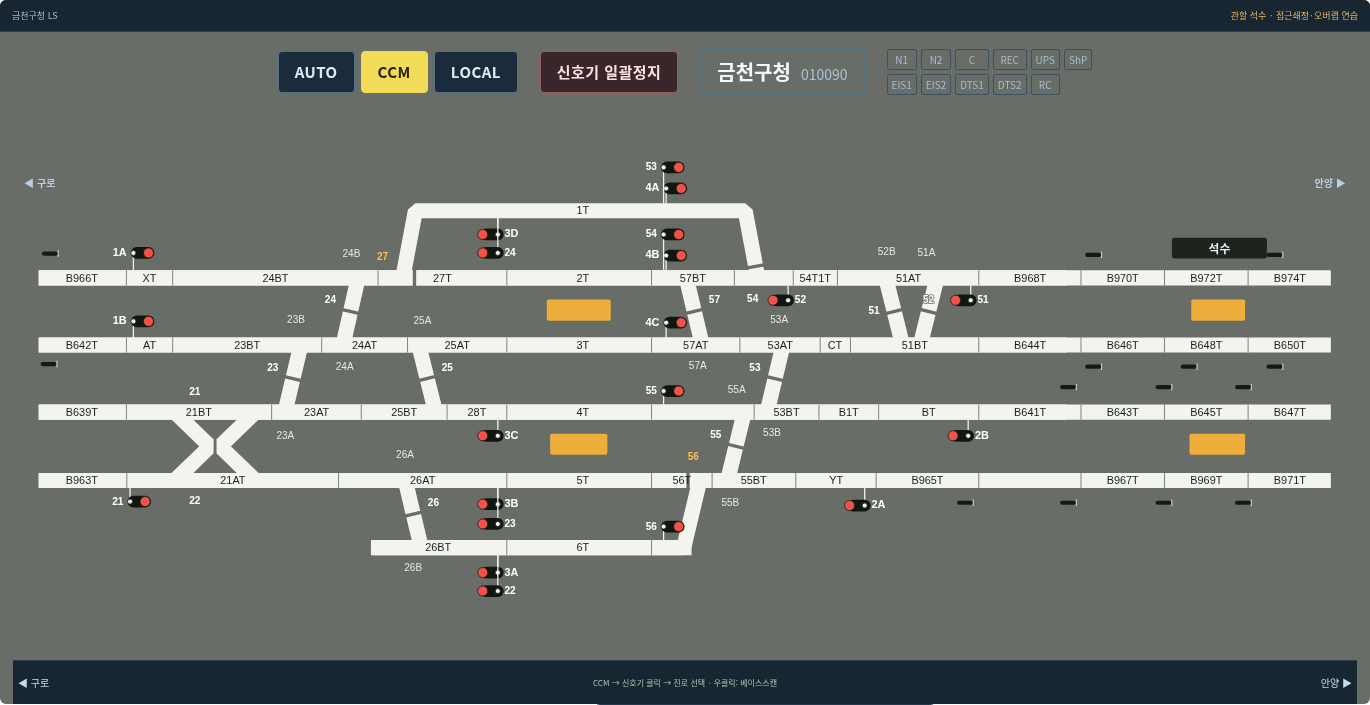
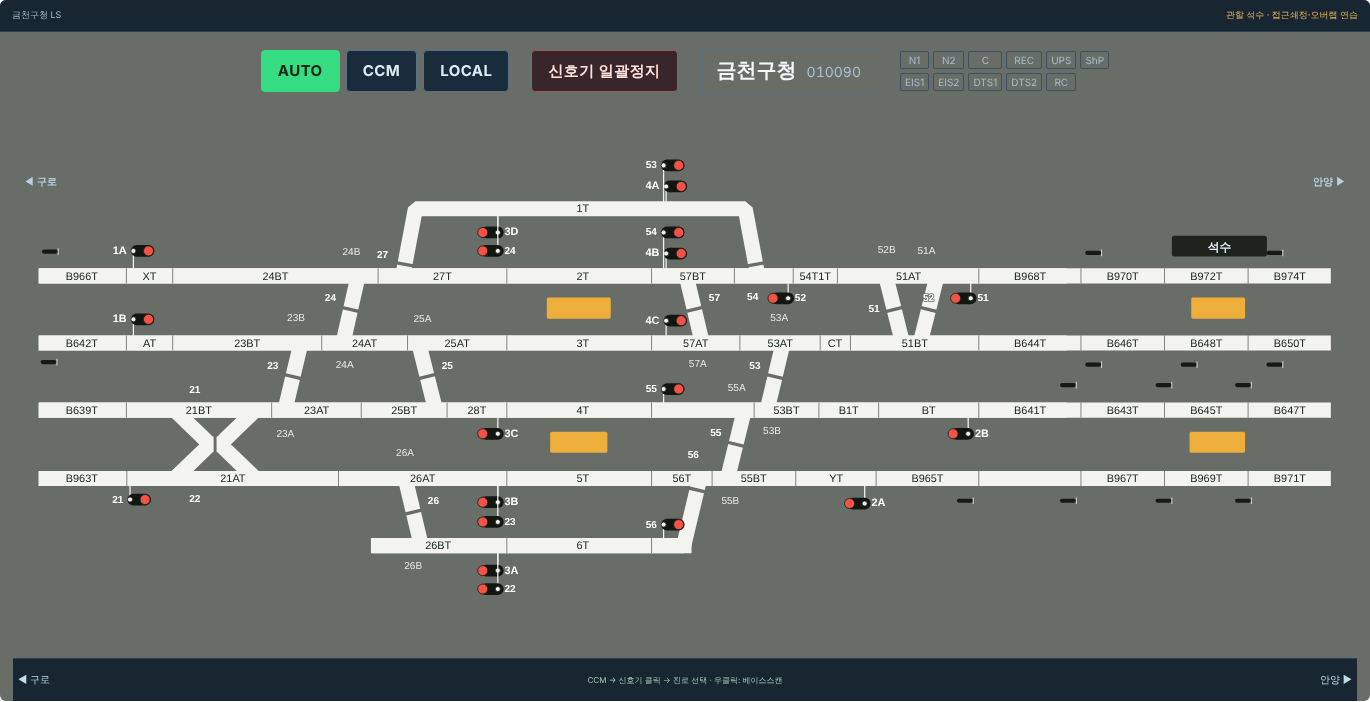
Add the ORPHEIA MMI shell: menu bar, floating windows and alarm/event logs
- mmi.js/mmi.css: Windows-style MMI after the real MMI photos (menu structure, windows, alarm and
  event log panes with the real message formats). The school logo is not used; the wallpaper is an
  Orpheia parody (optional assets/orpheia-mascot.png, vector lyre fallback).
- Existing field control, graph and schedule panels are hosted as windows with their ids kept;
  app.js gets two sync hooks for the logs.
- Windows seen in the photos but not implemented say so. Tests: mmi.browser.test.py; network and
  schematic browser tests adapted to the menu / optional mascot.

Claude-Session: https://claude.ai/code/session_016wg2Uchd4iKa4FQ1txHsNT

diff --git a/simulator/mmi.js b/simulator/mmi.js
@@ -1,0 +1,141 @@
+(function(root){
+'use strict';
+// "ORPHEIA MMI" shell (a parody of the real school MMI; no school logo is used): Windows-style menu bar, floating windows and the alarm / event log panes, as seen on the real MMI
+// (photos 2026-10-21). Existing panels (field control, graph, schedule) are hosted as windows; their element ids are kept.
+const N=root.SimNetwork,doc=document,$=id=>doc.getElementById(id);
+const esc=s=>String(s??'').replace(/[&<>"']/g,c=>({'&':'&amp;','<':'&lt;','>':'&gt;','"':'&quot;',"'":'&#39;'}[c]));
+const PENDING='원본 화면을 아직 확인하지 못해 구현하지 않았습니다.';
+// Menu structure copied from the photos. Items without `open` are known names whose windows are not implemented yet;
+// menus whose entries were never photographed are marked as unknown.
+const MENUS=[
+ {label:'프로그램',items:[{label:'(원본 메뉴 항목 미확인)',disabled:true}]},
+ {label:'현장제어',items:[
+  {label:'현장설비제어(A)',open:'field'},
+  {label:'열차제어',items:[{label:'열차번호제어(B)',open:'trainNumber'},{label:'열차추적(T)',open:'trace'}]}]},
+ {label:'열차스케줄',items:[
+  {label:'열차운행패턴 관리(P)',open:'pattern'},
+  {label:'온라인열차스케줄 관리',items:[{label:'온라인 열차스케줄ID관리(I)',open:'scheduleId'},{label:'온라인 열차스케줄관리(G)',open:'schedule'},{label:'진입예고열차관리(E)',open:'entryNotice'}]},
+  {label:'온라인 열차그래프(O)',open:'graph'},
+  {label:'오프라인 열차그래프(F)',open:'offlineGraph'},
+  {label:'오프라인 열차스케줄',items:[{label:'(원본 메뉴 항목 미확인)',disabled:true}]}]},
+ {label:'시스템 조회',items:[{label:'(원본 메뉴 항목 미확인)',disabled:true}]},
+ {label:'시스템 관리',items:[{label:'(원본 메뉴 항목 미확인)',disabled:true}]}
+];
+const windows={};let zTop=20,desktop,logRows={alarm:[],event:[]};
+const stamp=d=>`${d.getFullYear()}/${String(d.getMonth()+1).padStart(2,'0')}/${String(d.getDate()).padStart(2,'0')} ${String(d.getHours()).padStart(2,'0')}:${String(d.getMinutes()).padStart(2,'0')}:${String(d.getSeconds()).padStart(2,'0')}`;
+
+// ---------------------------------------------------------------- logs
+function renderLogs(){
+ for(const kind of ['alarm','event']){
+  const body=$(kind+'LogBody');if(!body)continue;
+  body.innerHTML=logRows[kind].length?logRows[kind].slice(0,200).map(r=>`<tr><td>[안내]</td><td>${r.time}</td><td>${esc(r.text)}</td></tr>`).join(''):`<tr class="empty"><td colspan="3">기록 없음</td></tr>`;
+ }
+}
+function log(kind,text,date=new Date()){logRows[kind].unshift({time:stamp(date),text});if(logRows[kind].length>500)logRows[kind].length=500;renderLogs();}
+const stationLabel=id=>{const s=N?.catalog[id];return s?{name:s.name,code:s.code}:{name:id,code:''};};
+const routeText=id=>'RT_'+id.replace('-','_');
+// Alarm log: route set / release. Event log: mode change and base scan. A new state object (reset) is a silent baseline.
+const seen={};
+function sync(stationId,state,action,result){
+ const st=stationLabel(stationId),prev=seen[stationId],now=new Set(Object.keys(state.routes));
+ if(!prev||prev.state!==state){seen[stationId]={state,routes:now,mode:state.mode};return;}
+ for(const id of now)if(!prev.routes.has(id))log('alarm',`${st.name}역 ${routeText(id)}진로설정`);
+ for(const id of prev.routes)if(!now.has(id))log('alarm',`${st.name}역 ${routeText(id)}진로해정`);
+ if(state.mode!==prev.mode)log('event',`${st.name}[${st.code}] ${state.mode} MODE로 전환`);
+ if(action?.type==='scan'&&result?.ok)log('event',action.scope==='all'?'전체 제어역 Basescan 수신':`${st.name}역 Basescan 수신`);
+ seen[stationId]={state,routes:now,mode:state.mode};
+}
+function syncAll(states){for(const [id,state] of Object.entries(states))sync(id,state);}
+
+// ---------------------------------------------------------------- windows
+function focus(w){w.el.style.zIndex=++zTop;for(const x of Object.values(windows))x.el.classList.toggle('active',x===w);}
+function createWindow(id,{title,x=24,y=24,width,body,host=null,onClose=null}){
+ const el=doc.createElement('div');el.className='mmi-win';el.dataset.mmiWindow=id;el.hidden=true;
+ el.style.left=x+'px';el.style.top=y+'px';if(width)el.style.width=width+'px';
+ el.innerHTML=`<div class="mmi-title"><span class="mmi-title-icon" aria-hidden="true"></span><span class="mmi-title-text">${esc(title)}</span><button type="button" class="mmi-close" aria-label="${esc(title)} 닫기">✕</button></div><div class="mmi-win-body"></div>`;
+ const holder=el.querySelector('.mmi-win-body');
+ if(host)holder.appendChild(host);else if(body)holder.innerHTML=body;
+ desktop.appendChild(el);
+ const w={id,el,host,onClose,title};windows[id]=w;
+ el.addEventListener('pointerdown',()=>focus(w));
+ el.querySelector('.mmi-close').onclick=()=>close(id);
+ // dragging by the title bar
+ const bar=el.querySelector('.mmi-title');
+ bar.addEventListener('pointerdown',e=>{if(e.target.closest('button'))return;const sx=e.clientX-el.offsetLeft,sy=e.clientY-el.offsetTop;bar.setPointerCapture(e.pointerId);
+  const move=ev=>{el.style.left=Math.max(0,ev.clientX-sx)+'px';el.style.top=Math.max(0,ev.clientY-sy)+'px';};
+  const up=()=>{bar.removeEventListener('pointermove',move);bar.removeEventListener('pointerup',up);};
+  bar.addEventListener('pointermove',move);bar.addEventListener('pointerup',up);});
+ if(host)new MutationObserver(()=>{el.hidden=host.hidden;}).observe(host,{attributes:true,attributeFilter:['hidden']});
+ return w;
+}
+function open(id){
+ const w=windows[id];if(!w){return null;}
+ // an already open window is only brought to the front (re-running the opener would reload its draft)
+ if(w.host&&w.host.hidden){w.host.hidden=false;w.opener?.();}
+ w.el.hidden=false;focus(w);return w;
+}
+function close(id){const w=windows[id];if(!w)return;if(w.host){const btn=w.closer?$(w.closer):null;if(btn)btn.click();w.host.hidden=true;}w.el.hidden=true;}
+const isOpen=id=>!!windows[id]&&!windows[id].el.hidden;
+
+// windows that exist on the real MMI but are not implemented yet
+function placeholder(id,title,note){
+ createWindow(id,{title,x:60+Object.keys(windows).length*14,y:60+Object.keys(windows).length*14,width:520,body:`<div class="mmi-pending"><p><b>${esc(title)}</b></p><p>${esc(note||PENDING)}</p></div>`});
+}
+
+// ---------------------------------------------------------------- menu bar
+// Wallpaper parody of the school logo: the Orpheia mascot (assets/orpheia-mascot.png, optional) or a vector lyre + ORPHEIA.
+const LYRE='<svg viewBox="0 0 64 72" width="54" height="60" aria-hidden="true"><path d="M14 8c-8 8-8 26 2 34 4 3 8 5 12 5V12c0-3-3-5-6-4-3 1-5 3-8 0z" fill="none"/><path d="M12 10c-6 14-2 30 12 36 3 1 5 2 8 2s5-1 8-2c14-6 18-22 12-36" fill="none" stroke="#c9a227" stroke-width="4" stroke-linecap="round"/><path d="M20 12v34M28 10v38M36 10v38M44 12v34" stroke="#e3c25a" stroke-width="2.4" stroke-linecap="round"/><path d="M10 10h44" stroke="#c9a227" stroke-width="5" stroke-linecap="round"/><path d="M24 58h16l4 8H20z" fill="#c9a227"/></svg>';
+function brand(){
+ const one=`<div class="mmi-brand"><span class="mmi-mascot">${LYRE}<img src="assets/orpheia-mascot.png" alt="" onerror="this.remove()" onload="this.parentElement.querySelector('svg')?.remove()"></span><span class="mmi-brand-text"><b>ORPHEIA</b><em>MMI</em><small>電脳侍女 · LV.99</small></span></div>`;
+ return `<div class="mmi-wallpaper" aria-hidden="true">${one}${one}</div>`;
+}
+function buildMenu(){
+ const bar=doc.createElement('div');bar.className='mmi-menubar';bar.setAttribute('role','menubar');
+ let openTop=null;
+ const closeAll=()=>{bar.querySelectorAll('.open').forEach(e=>e.classList.remove('open'));openTop=null;};
+ const list=(items,depth)=>`<ul class="mmi-menu-list" role="menu">${items.map(it=>it.items?`<li class="has-sub" role="none"><button type="button" role="menuitem" aria-haspopup="true">${esc(it.label)}<i>▸</i></button>${list(it.items,depth+1)}</li>`
+  :`<li role="none"><button type="button" role="menuitem" ${it.disabled?'disabled':''} ${it.open?`data-mmi-open="${it.open}"`:''}>${esc(it.label)}</button></li>`).join('')}</ul>`;
+ bar.innerHTML=MENUS.map(m=>`<div class="mmi-menu-top"><button type="button" class="mmi-top-btn" aria-haspopup="true">${esc(m.label)}</button>${list(m.items,1)}</div>`).join('');
+ bar.addEventListener('click',e=>{
+  const top=e.target.closest('.mmi-top-btn');
+  if(top){const wrap=top.parentElement,was=wrap.classList.contains('open');closeAll();if(!was){wrap.classList.add('open');openTop=wrap;}return;}
+  const sub=e.target.closest('.has-sub>button');if(sub){const li=sub.parentElement;const was=li.classList.contains('open');li.parentElement.querySelectorAll(':scope>.open').forEach(x=>x.classList.remove('open'));if(!was)li.classList.add('open');return;}
+  const item=e.target.closest('[data-mmi-open]');if(item){closeAll();open(item.dataset.mmiOpen);}
+ });
+ bar.addEventListener('mouseover',e=>{const top=e.target.closest('.mmi-menu-top');if(top&&openTop&&top!==openTop){closeAll();top.classList.add('open');openTop=top;}});
+ doc.addEventListener('pointerdown',e=>{if(!e.target.closest('.mmi-menubar'))closeAll();});
+ doc.addEventListener('keydown',e=>{if(e.key==='Escape')closeAll();});
+ return bar;
+}
+
+// ---------------------------------------------------------------- shell
+function init(){
+ const old=doc.querySelector('.mmi-panel');if(!old)return;
+ const field=old.querySelector('.mmi-window'),graph=$('graphPanel'),schedule=$('schedulePanel');
+ const shell=doc.createElement('section');shell.className='panel mmi-shell';shell.id='mmiShell';
+ shell.innerHTML=`<div class="mmi-appbar"><span class="mmi-appicon" aria-hidden="true"></span><b>ORPHEIA MMI</b><span class="mmi-appnote">전뇌시녀 오르페이아의 관제 보조 단말 · 메뉴와 창 구성은 실물 사진 기준</span></div>`;
+ shell.appendChild(buildMenu());
+ desktop=doc.createElement('div');desktop.className='mmi-desktop';desktop.id='mmiDesktop';
+ desktop.innerHTML=brand();
+ shell.appendChild(desktop);
+ shell.insertAdjacentHTML('beforeend',`<div class="mmi-logs"><section class="mmi-log" aria-label="알람 로그"><div class="mmi-log-head">알람 로그</div><div class="mmi-log-scroll"><table><thead><tr><th>구분</th><th>시간</th><th>알람내역</th></tr></thead><tbody id="alarmLogBody"></tbody></table></div></section><section class="mmi-log" aria-label="이벤트 로그"><div class="mmi-log-head">이벤트 로그</div><div class="mmi-log-scroll"><table><thead><tr><th>구분</th><th>시간</th><th>이벤트내역</th></tr></thead><tbody id="eventLogBody"></tbody></table></div></section></div>`);
+ old.parentNode.insertBefore(shell,old);
+ // hosted windows keep their element ids so the existing handlers and tests continue to work
+ field.classList.add('mmi-field');
+ createWindow('field',{title:'현장설비제어',x:18,y:14,width:560,host:field});
+ windows.field.el.hidden=false;
+ if(graph){const w=createWindow('graph',{title:'ORPHEIA CTC ONLINE T/G',x:40,y:24,width:1180,host:graph});w.opener=()=>{$('onlineGraphBtn')?.click();};w.closer='closeGraph';}
+ if(schedule){const w=createWindow('schedule',{title:'[CA028_02] 온라인 열차스케줄관리',x:300,y:420,width:1100,host:schedule});w.opener=()=>{$('onlineScheduleBtn')?.click();};w.closer='closeSchedule';}
+ placeholder('trainNumber','[CA012_01] 열차번호제어','열차번호제어 화면(작업구분 삽입·삭제·수정·이동·교환, 제어영역 리스트)은 사진으로 구조만 확인했으며 아직 구현하지 않았습니다.');
+ placeholder('trace','열차추적(T)');
+ placeholder('pattern','열차운행패턴 관리(P)');
+ placeholder('scheduleId','[CA028_01] 온라인열차스케줄ID관리','온라인열차스케줄ID관리 화면(운행일 달력, 스케줄 ID 목록)은 사진으로 확인했으며 아직 구현하지 않았습니다.');
+ placeholder('entryNotice','진입예고열차관리(E)');
+ placeholder('offlineGraph','오프라인 열차그래프(F)');
+ // the old tab strip is replaced by the menu bar; its elements stay in the DOM (hidden) because other code binds to them
+ old.hidden=true;
+ renderLogs();
+}
+if(doc.readyState==='loading')doc.addEventListener('DOMContentLoaded',init);else init();
+root.SimMMI={open,close,isOpen,log,sync,syncAll,menus:MENUS,windowIds:()=>Object.keys(windows)};
+})(window);

diff --git a/simulator/index.html b/simulator/index.html
@@ -1,5 +1,5 @@
 <!doctype html>
-<html lang="ko"><head><meta charset="utf-8"><meta name="viewport" content="width=device-width,initial-scale=1"><title>CTC LAB · LS & MMI 조작 실습</title><link rel="stylesheet" href="style.css?v=120"></head>
+<html lang="ko"><head><meta charset="utf-8"><meta name="viewport" content="width=device-width,initial-scale=1"><title>CTC LAB · LS & MMI 조작 실습</title><link rel="stylesheet" href="style.css?v=120"><link rel="stylesheet" href="mmi.css?v=130"></head>
 <body>
 <aside class="sidebar"><a class="brand" href="#"><span class="brand-icon">⌁</span> CTC <b>LAB</b></a><div class="side-caption">철도교통관제 조작 실습</div><div class="nav-label">TRAINING WORKSPACE</div><button class="nav active" id="workspaceNav">▦ <span>LS · MMI 실습실</span><i>01</i></button><button class="nav" id="guideBtn">▤ <span>매뉴얼 · 구현 범위</span></button><div class="side-divider"></div><div class="nav-label">연습 환경</div><div class="side-station"><span class="live-dot"></span>지하서울 <small>010030</small></div><p class="side-note">2017 CTC 운영 매뉴얼 기반<br>교육장 배선도 대조 · v0.12.0</p><div class="side-bottom"><span class="outline-tag">LOCAL</span><p>설치 없이 브라우저에서<br>반복하는 관제 조작</p></div></aside>
 <main>
@@ -29,4 +29,4 @@
 </div><p id="graphMessage" role="status" aria-live="polite"></p><div class="graph-scroll"><svg id="diaSvg" role="img" aria-label="시간과 역을 축으로 한 열차 다이아 그래프"></svg></div><div id="graphDetails"></div>
 </section><footer><span>CTC LAB <b>원본 배선도 기반 v0.12.0</b></span><span>15개 제어역 · 다이아·스케줄 연습 <button class="text-btn" id="footerGuide">근거와 구현 범위 보기 ↗</button></span></footer>
 </main><div id="toast" role="status" aria-live="polite"></div><dialog id="actionDialog"><form method="dialog"><div class="dialog-kicker">L/S CONTROL</div><h2 id="dialogTitle"></h2><div id="dialogBody"></div><div class="dialog-actions"><button value="cancel" class="subtle">아니오 · 취소</button><button value="confirm" class="primary" id="dialogConfirm">예 · 실행</button></div></form></dialog><dialog id="guideDialog"><div class="dialog-kicker">SOURCE & SCOPE</div><h2>매뉴얼 근거와 구현 범위</h2><div class="guide-content"><h3>데스크톱 전용</h3><p>이 실습은 PC의 마우스와 넓은 화면을 사용하는 관제 조작 실습입니다. 모바일 화면과 모바일 검증은 제공하지 않습니다.</p><h3>LS 화면</h3><p>취급역을 선택하면 그 역의 선로·신호기·전환기 이름을 벡터로 새로 그린 LS가 나옵니다. 화면 폭을 모두 사용하고 가운데 정렬합니다. 역 탭의 색 점은 제어모드(AUTO 녹색·CCM 노랑·LOCAL 주황), 숫자는 설정된 진로 수입니다. 좌우 화살표로 인접 취급역을 전환합니다.</p><h3>15개 역 제어</h3><p>CCM 모드에서 장내·출발·입환 신호기를 선택하고 진로를 설정하면 선로에 표시됩니다. 같은 구간·전환기를 사용하는 진로는 경합을 거부합니다. 전환기는 LS에 조작 버튼이 없으므로 MMI 선로전환기제어에서 N/R·쇄정·해제를 선택해 조작하고, LS에서는 이름표(반위는 주황)로 상태만 봅니다. N/R은 연결 형태를 기준으로 한 연습 표시입니다.</p><h3>모의 열차와 신호 정지</h3><p>설정된 진로 아래의 모의 열차 진입을 누르면 적색 점유로 바뀌고 신호가 정지합니다. 점유 중 진로 정지·일괄정지는 쇄정을 유지합니다. 모의 열차 통과 후 단일 진로는 해정하고 연속진로는 재설정합니다. 일괄정지는 연속 재설정도 취소합니다.</p><h3>접근쇄정과 오버랩</h3><p>진로 현황판에서 신호기별 접근 열차를 투입한 뒤 그 신호를 정지하면 진로가 장내 90초·출발 30초 동안 쇄정되고, 남은 시간이 지나야 해정됩니다. 쇄정 중에는 같은 진로·경합 진로 설정, 전환기 조작, 모의 열차 진입이 거부됩니다. 접근 열차가 없으면 즉시 해정됩니다.</p><h3>출처와 현재 범위</h3><p>신호기 246개·전환기 그룹 118개를 배선 추적 데이터(wiring.js)에서 읽어 LS를 다시 그렸습니다. 연결로 도출한 경로 654개 중 120개는 실무5 부록 A·비상시조치 대본의 기본 경로 예시 또는 기존 MMI 목록과 대조했습니다. 메뉴는 교재·대본 대조 경로와 배선 연결 경로를 구분합니다.</p><p>실설비 전체 진로표·정반위 조건표·측방방호·등색 조합은 검증 완료하지 않았습니다. 접근쇄정(장내 90초·출발 30초)은 교재 구술 8번 정의에 따라 접근 열차를 투입한 뒤 신호를 정지할 때만 걸립니다. 오버랩은 교재 대본에 나온 금천구청 2B-6T·1B-1T와 영등포 1A-1T만 구현했으며 그 밖의 진로는 미구현입니다. 모의 점유는 경로 단위 입력이며 실제 열차 추적·궤도별 순차 해정은 아닙니다. 온라인 다이아·스케줄은 별도 교육용 운행 모델입니다.</p></div><button class="primary" id="closeGuide">확인</button></dialog>
-<script src="wiring.js?v=120"></script><script src="wings.js?v=120"></script><script src="schematic-details.js?v=120"></script><script src="ls-switches.js?v=120"></script><script src="ls-view.js?v=120"></script><script src="network.js?v=120"></script><script src="interlocking.js?v=120"></script><script src="route-menus.js?v=120"></script><script src="core.js?v=120"></script><script src="practice.js?v=120"></script><script src="timetable.js?v=120"></script><script src="diagram-ui.js?v=120"></script><script src="schedule-ui.js?v=120"></script><script src="app.js?v=120"></script></body></html>
+<script src="wiring.js?v=120"></script><script src="wings.js?v=120"></script><script src="schematic-details.js?v=120"></script><script src="ls-switches.js?v=120"></script><script src="ls-view.js?v=120"></script><script src="network.js?v=120"></script><script src="interlocking.js?v=120"></script><script src="route-menus.js?v=120"></script><script src="core.js?v=120"></script><script src="practice.js?v=120"></script><script src="timetable.js?v=120"></script><script src="diagram-ui.js?v=120"></script><script src="schedule-ui.js?v=120"></script><script src="app.js?v=120"></script><script src="mmi.js?v=130"></script></body></html>

diff --git a/simulator/app.js b/simulator/app.js
@@ -9,7 +9,7 @@ const time=t=>`${Math.floor(t/60).toString().padStart(2,'0')}:${(t%60).toString(
 const tasks=window.SimPractice.tasks;
 completed=[...new Set(completed.filter(i=>Number.isInteger(i)&&i>=0&&i<tasks.length))];
 function toast(msg,error=false){$('toast').textContent=msg;$('toast').className='show'+(error?' error':'');clearTimeout(toastTimer);toastTimer=setTimeout(()=>$('toast').className='',5000);}
-function run(a){let r;if(a.type==='tick'){for(const [id,st]of Object.entries(stationStates))BaseCore.forStation(id).dispatch(st,a);r={ok:true};}else if(a.type==='scan'&&a.scope==='all'){for(const [id,st]of Object.entries(stationStates))BaseCore.forStation(id).dispatch(st,a);r={ok:true,message:'전체 15개 취급역 상태 재수신'};}else r=C.dispatch(state,a);render();if(a.type!=='tick')toast(r.message,!r.ok);return r;}
+function run(a){let r;if(a.type==='tick'){for(const [id,st]of Object.entries(stationStates))BaseCore.forStation(id).dispatch(st,a);r={ok:true};}else if(a.type==='scan'&&a.scope==='all'){for(const [id,st]of Object.entries(stationStates))BaseCore.forStation(id).dispatch(st,a);r={ok:true,message:'전체 15개 취급역 상태 재수신'};}else r=C.dispatch(state,a);if(window.SimMMI){if(a.type==='tick')window.SimMMI.syncAll(stationStates);else window.SimMMI.sync(selectedStation,state,a,r);}render();if(a.type!=='tick')toast(r.message,!r.ok);return r;}
 function openAction(title,body,action,label='예 · 실행'){$('dialogConfirm').hidden=false;$('dialogTitle').textContent=title;$('dialogBody').innerHTML=body;dialogAction=action;$('actionDialog').returnValue='';$('dialogConfirm').textContent=label;$('actionDialog').showModal();}
 function routeDetails(id){const r=C.routes[id];return `<div class="route-detail"><b>${escapeHTML(id)}</b><p>${r.pathTracks.join(' → ')}</p><p class="evidence">${r.evidence}</p><p>${r.source.map(escapeHTML).join('<br>')}</p><p class="pending-note">배선 연결 연습 모델 · 경로의 공유 구간·전환기를 쇄정합니다. 실설비 진로표와 세부 연동조건은 별도 검증 대상입니다</p></div>`;}
 const statusLabel={SET:'설정',OCCUPIED:'점유',LOCKED:'쇄정',APPROACH_LOCK:'접근쇄정'};
@@ -113,7 +113,7 @@ for(const id of ['guideBtn','footerGuide'])$(id).onclick=()=>$('guideDialog').sh
 $('fieldMenu').onclick=()=>toast('현장제어 · 확인된 경로 및 설비 구성');$('systemMenu').onclick=()=>document.querySelector('.log-panel').scrollIntoView({behavior:'smooth'});$('workspaceNav').onclick=()=>window.scrollTo({top:0,behavior:'smooth'});
 $('exportBtn').onclick=()=>{const data={app:'CTC LAB v0.10.0',exportedAt:new Date().toISOString(),sources:C.sources,routeCatalog:C.routes,interlockingVerified:false,selectedStation,stations:stationStates,state};const url=URL.createObjectURL(new Blob([JSON.stringify(data,null,2)],{type:'application/json'}));const a=document.createElement('a');a.href=url;a.download='ctc-lab-session.json';a.click();setTimeout(()=>URL.revokeObjectURL(url),1000);};
 const lockSig=()=>Object.entries(state.routes).map(([id,r])=>id+(r.lock?'L':'')).join();
-setInterval(()=>{if(!paused&&!$('actionDialog').open&&!$('guideDialog').open){const seconds=Number($('graphSpeed').value),before=lockSig();for(const [id,st]of Object.entries(stationStates))BaseCore.forStation(id).dispatch(st,{type:'tick',seconds});if(lockSig()!==before)render();else for(const row of document.querySelectorAll('[data-lock-row]')){const r=state.routes[row.dataset.lockRow];if(r?.lock){const left=Math.max(0,Math.ceil(r.lock.until-state.clock));row.querySelector('[data-lock-remaining]').textContent=left;row.querySelector('.lock-timer i').style.width=Math.round((r.lock.seconds-left)/r.lock.seconds*100)+'%';}}window.SimDiagram.render();$('clock').textContent=time(state.clock);$('stateScan').textContent=state.clock<state.scanUntil?'재수신 완료':'정상';}},1000);
+setInterval(()=>{if(!paused&&!$('actionDialog').open&&!$('guideDialog').open){const seconds=Number($('graphSpeed').value),before=lockSig();for(const [id,st]of Object.entries(stationStates))BaseCore.forStation(id).dispatch(st,{type:'tick',seconds});window.SimMMI?.syncAll(stationStates);if(lockSig()!==before)render();else for(const row of document.querySelectorAll('[data-lock-row]')){const r=state.routes[row.dataset.lockRow];if(r?.lock){const left=Math.max(0,Math.ceil(r.lock.until-state.clock));row.querySelector('[data-lock-remaining]').textContent=left;row.querySelector('.lock-timer i').style.width=Math.round((r.lock.seconds-left)/r.lock.seconds*100)+'%';}}window.SimDiagram.render();$('clock').textContent=time(state.clock);$('stateScan').textContent=state.clock<state.scanUntil?'재수신 완료':'정상';}},1000);
 fields();render();taskView();
 
 window.SimDiagram.init({clock:()=>state.clock,selectStation});

diff --git a/simulator/mmi.css b/simulator/mmi.css
@@ -1,0 +1,48 @@
+/* ORPHEIA MMI shell — classic Windows look after the real MMI photos (2026-10-21); the school logo is not used */
+.mmi-shell{padding:0;overflow:visible;border:2px solid #6c7aa3;border-radius:4px;background:#f3f3f1;color:#111}
+.mmi-appbar{display:flex;align-items:center;gap:8px;padding:4px 10px;background:linear-gradient(#e9ecf5,#cfd5e6);border-bottom:1px solid #8c97b8;font-size:13px}
+.mmi-appicon{width:14px;height:14px;background:#3a5ea8;border:1px solid #1f3a73;border-radius:2px}
+.mmi-appnote{margin-left:auto;font-size:11px;color:#55607e}
+.mmi-menubar{display:flex;gap:2px;padding:2px 6px;background:#f0f0ee;border-bottom:1px solid #a6a6a2;position:relative;z-index:200}
+.mmi-menu-top{position:relative}
+.mmi-top-btn{padding:4px 12px;border:1px solid transparent;background:transparent;font-size:13px;cursor:default;color:#111}
+.mmi-top-btn:hover,.mmi-menu-top.open>.mmi-top-btn{background:#316ac5;color:#fff;border-color:#244e92}
+.mmi-menu-list{display:none;position:absolute;left:0;top:100%;min-width:230px;margin:0;padding:2px;list-style:none;background:#f6f6f4;border:1px solid #6d6d6a;box-shadow:3px 3px 6px rgba(0,0,0,.3);z-index:300}
+.mmi-menu-top.open>.mmi-menu-list{display:block}
+.mmi-menu-list li{position:relative}
+.mmi-menu-list button{display:flex;justify-content:space-between;align-items:center;gap:18px;width:100%;padding:5px 12px;border:0;background:transparent;text-align:left;font-size:13px;color:#111;cursor:default;white-space:nowrap}
+.mmi-menu-list button:hover:not(:disabled),.mmi-menu-list .has-sub.open>button{background:#316ac5;color:#fff}
+.mmi-menu-list button:disabled{color:#8b8b88}
+.mmi-menu-list .mmi-menu-list{left:100%;top:-3px}
+.mmi-menu-list .has-sub.open>.mmi-menu-list{display:block}
+.mmi-desktop{position:relative;min-height:760px;background:linear-gradient(135deg,#f3f4f7,#e7eaf2);overflow:hidden;border-bottom:1px solid #8c97b8}
+.mmi-wallpaper{position:absolute;inset:0;pointer-events:none;display:flex;justify-content:space-around;align-items:center;gap:40px;padding:0 6%}
+.mmi-brand{display:flex;align-items:center;gap:16px;opacity:.55}
+.mmi-mascot img{height:190px;width:auto;display:block}
+.mmi-brand-text{display:flex;flex-direction:column;line-height:1}
+.mmi-brand-text b{font-size:46px;letter-spacing:.06em;color:#2e3a58}
+.mmi-brand-text em{font-style:normal;font-size:30px;font-weight:800;color:#c9a227;letter-spacing:.3em;margin-top:4px}
+.mmi-brand-text small{margin-top:8px;font-size:13px;color:#59627d;letter-spacing:.12em}
+.mmi-win{position:absolute;max-width:calc(100% - 8px);background:#ecebe6;border:1px solid #5d6c97;box-shadow:4px 4px 10px rgba(30,40,70,.35);display:flex;flex-direction:column}
+.mmi-win[hidden]{display:none}
+.mmi-title{display:flex;align-items:center;gap:6px;padding:3px 4px 3px 6px;background:linear-gradient(#bcc6e0,#9eabcf);border-bottom:1px solid #6d7ca8;cursor:move;user-select:none;font-size:12px}
+.mmi-win.active .mmi-title{background:linear-gradient(#8ea2d8,#5f78bf);color:#fff}
+.mmi-title-icon{width:11px;height:11px;background:#fff;border:1px solid #55658f}
+.mmi-title-text{flex:1;font-weight:600;white-space:nowrap;overflow:hidden;text-overflow:ellipsis}
+.mmi-close{width:20px;height:18px;line-height:14px;padding:0;border:1px solid #7b2a22;background:#c9503f;color:#fff;font-size:11px;cursor:pointer}
+.mmi-close:hover{background:#e0604d}
+.mmi-win-body{overflow:auto;max-height:700px}
+.mmi-win-body>.panel{margin:0;border:0;border-radius:0;box-shadow:none;background:transparent}
+.mmi-win .graph-panel>.panel-title{display:none}
+.mmi-win .mmi-window{margin:0;border:0;box-shadow:none}
+.mmi-pending{padding:18px 20px;font-size:13px;line-height:1.6;color:#33363f}
+.mmi-pending b{font-size:14px}
+.mmi-logs{display:grid;gap:0}
+.mmi-log{border-top:1px solid #8c97b8}
+.mmi-log-head{padding:2px 8px;background:#8d94b9;color:#fff;font-size:12px;font-weight:700}
+.mmi-log-scroll{height:104px;overflow:auto;background:#fff}
+.mmi-log table{width:100%;border-collapse:collapse;font-size:12px}
+.mmi-log th{position:sticky;top:0;background:#e6e6e2;text-align:left;padding:2px 8px;border-bottom:1px solid #b9b9b4;font-weight:600}
+.mmi-log td{padding:1px 8px;border-bottom:1px solid #f0f0ee;white-space:nowrap}
+.mmi-log th:nth-child(1),.mmi-log td:nth-child(1){width:64px}.mmi-log th:nth-child(2),.mmi-log td:nth-child(2){width:150px}
+.mmi-log tr.empty td{color:#8a8a86;text-align:center}

diff --git a/simulator/mmi.browser.test.py b/simulator/mmi.browser.test.py
@@ -1,0 +1,103 @@
+"""ORPHEIA MMI shell: menu bar, windows, alarm/event logs (Chromium). Run: python3 simulator/mmi.browser.test.py"""
+from functools import partial
+from http.server import SimpleHTTPRequestHandler, ThreadingHTTPServer
+from pathlib import Path
+from threading import Thread
+from playwright.sync_api import sync_playwright, expect
+
+ROOT = Path(__file__).resolve().parent
+
+
+class Quiet(SimpleHTTPRequestHandler):
+    def log_message(self, *_a):
+        pass
+
+
+def menu(page, top, *path):
+    page.locator('.mmi-top-btn', has_text=top).click()
+    for name in path[:-1]:
+        page.locator('.mmi-menu-list .has-sub > button', has_text=name).first.click()
+    page.locator('.mmi-menu-list [data-mmi-open]', has_text=path[-1]).first.click()
+
+
+def run(page, url, width, height):
+    errors = []
+    page.on('pageerror', lambda e: errors.append(str(e)))
+    page.goto(url, wait_until='networkidle')
+    # brand: parody, never the school logo
+    body = page.locator('body').inner_text()
+    assert 'ORPHEIA MMI' in body and '송원' not in body and 'SONGWON' not in body.upper() and 'SWU' not in body and 'SWON' not in body
+    expect(page.locator('.mmi-brand-text b').first).to_have_text('ORPHEIA')
+    # menu bar exactly as photographed
+    tops = page.locator('.mmi-top-btn').all_inner_texts()
+    assert tops == ['프로그램', '현장제어', '열차스케줄', '시스템 조회', '시스템 관리'], tops
+    page.locator('.mmi-top-btn', has_text='현장제어').click()
+    labels = page.locator('.mmi-menu-top.open .mmi-menu-list button').all_inner_texts()
+    assert [l.replace('▸', '').strip() for l in labels] == ['현장설비제어(A)', '열차제어', '열차번호제어(B)', '열차추적(T)'], labels
+    page.keyboard.press('Escape')
+    page.locator('.mmi-top-btn', has_text='열차스케줄').click()
+    sched = [l.replace('▸', '').strip() for l in page.locator('.mmi-menu-top.open .mmi-menu-list button').all_inner_texts()]
+    for want in ['열차운행패턴 관리(P)', '온라인열차스케줄 관리', '온라인 열차스케줄ID관리(I)', '온라인 열차스케줄관리(G)', '진입예고열차관리(E)', '온라인 열차그래프(O)', '오프라인 열차그래프(F)', '오프라인 열차스케줄']:
+        assert want in sched, (want, sched)
+    page.keyboard.press('Escape')
+    # windows: field control is open at start; graph/schedule open from the menu and close with their X
+    expect(page.locator('[data-mmi-window="field"]')).to_be_visible()
+    menu(page, '열차스케줄', '온라인 열차그래프(O)')
+    expect(page.locator('[data-mmi-window="graph"]')).to_be_visible()
+    expect(page.locator('#diaSvg')).to_be_visible()
+    page.locator('[data-mmi-window="graph"] .mmi-close').click()
+    expect(page.locator('[data-mmi-window="graph"]')).to_be_hidden()
+    menu(page, '열차스케줄', '온라인열차스케줄 관리', '온라인 열차스케줄관리(G)')
+    expect(page.locator('[data-mmi-window="schedule"]')).to_be_visible()
+    page.locator('[data-mmi-window="schedule"] .mmi-close').click()
+    expect(page.locator('[data-mmi-window="schedule"]')).to_be_hidden()
+    # windows known from photos but not implemented say so instead of pretending
+    menu(page, '현장제어', '열차제어', '열차번호제어(B)')
+    expect(page.locator('[data-mmi-window="trainNumber"]')).to_contain_text('아직 구현하지 않았습니다')
+    page.locator('[data-mmi-window="trainNumber"] .mmi-close').click()
+    # dragging by the title bar
+    title = page.locator('[data-mmi-window="field"] .mmi-title')
+    before = page.locator('[data-mmi-window="field"]').evaluate('e=>[e.offsetLeft,e.offsetTop]')
+    box = title.bounding_box()
+    page.mouse.move(box['x'] + 80, box['y'] + 8); page.mouse.down(); page.mouse.move(box['x'] + 200, box['y'] + 60, steps=5); page.mouse.up()
+    after = page.locator('[data-mmi-window="field"]').evaluate('e=>[e.offsetLeft,e.offsetTop]')
+    assert after[0] > before[0] + 50 and after[1] > before[1] + 20, (before, after)
+    # logs: nothing before any command
+    expect(page.locator('#alarmLogBody tr.empty')).to_have_count(1)
+    # CCM -> route set -> release through the field control window
+    page.locator('#stationSelect').select_option('geumcheon')
+    page.locator('input[name="mmiMode"][value="CCM"]').check(); page.locator('#mmiApply').click()
+    expect(page.locator('#eventLogBody')).to_contain_text('금천구청[010090] CCM MODE로 전환')
+    page.locator('#controlSelect').select_option('route')
+    page.locator('#mmiSignal').select_option('4A'); page.locator('#mmiRoute').select_option('4A-B968T'); page.locator('#mmiApply').click()
+    expect(page.locator('#alarmLogBody tr').first).to_contain_text('금천구청역 RT_4A_B968T진로설정')
+    first = page.locator('#alarmLogBody tr').first.inner_text()
+    assert first.startswith('[안내]') and '/' in first and ':' in first, first
+    page.locator('input[name="routeAction"][value="withdraw"]').check(); page.locator('#mmiApply').click()
+    expect(page.locator('#alarmLogBody tr').first).to_contain_text('금천구청역 RT_4A_B968T진로해정')
+    assert page.locator('#alarmLogBody tr').count() == 2
+    # base scan -> event log
+    page.locator('#controlSelect').select_option('scan'); page.locator('input[name="mmiScope"][value="all"]').check(); page.locator('#mmiApply').click()
+    expect(page.locator('#eventLogBody tr').first).to_contain_text('전체 제어역 Basescan 수신')
+    # a reset replaces the state object: it must not be logged as a release
+    page.on('dialog', lambda d: d.accept())
+    page.locator('#controlSelect').select_option('route'); page.locator('#mmiSignal').select_option('4A'); page.locator('#mmiRoute').select_option('4A-B968T'); page.locator('input[name="routeAction"][value="select"]').check(); page.locator('#mmiApply').click()
+    count = page.locator('#alarmLogBody tr').count()
+    page.locator('#resetBtn').click()
+    assert page.locator('#alarmLogBody tr').count() == count
+    assert not errors, errors
+    print(f'PASS ORPHEIA MMI shell: menus, windows, drag, alarm/event logs at {width}x{height}')
+
+
+server = ThreadingHTTPServer(('127.0.0.1', 0), partial(Quiet, directory=str(ROOT)))
+Thread(target=server.serve_forever, daemon=True).start()
+try:
+    with sync_playwright() as p:
+        browser = p.chromium.launch(executable_path='/usr/bin/chromium', args=['--no-sandbox'])
+        for width, height in ((1440, 1000), (1920, 1080)):
+            page = browser.new_page(viewport={'width': width, 'height': height})
+            run(page, f'http://127.0.0.1:{server.server_port}/', width, height)
+            page.close()
+        browser.close()
+finally:
+    server.shutdown()

diff --git a/simulator/network.browser.test.py b/simulator/network.browser.test.py
@@ -6,6 +6,22 @@ from pathlib import Path
 from threading import Thread
 from playwright.sync_api import sync_playwright, expect
 
+def open_menu(page, top, *path):
+    """Open an MMI window through the real menu bar: top menu, then each submenu entry."""
+    page.locator('.mmi-top-btn', has_text=top).click()
+    for name in path[:-1]:
+        page.locator('.mmi-menu-list .has-sub > button', has_text=name).first.click()
+    page.locator('.mmi-menu-list [data-mmi-open]', has_text=path[-1]).first.click()
+
+
+def front(page, window_id):
+    """Bring an MMI window to the front through the menu (windows overlap like on the real MMI)."""
+    if window_id == 'graph':
+        open_menu(page, '열차스케줄', '온라인 열차그래프(O)')
+    else:
+        open_menu(page, '열차스케줄', '온라인열차스케줄 관리', '온라인 열차스케줄관리(G)')
+
+
 ROOT = Path(__file__).resolve().parent
 
 
@@ -68,8 +84,7 @@ def check(page, url, screenshot=False):
     page.locator('#stationSelect').select_option('guro')
     expect(page.locator('#stateRoutes')).to_have_text('1개 설정')
     page.locator('#pauseBtn').click()
-    page.locator('#trainGraphMenu').click()
-    page.locator('#onlineGraphBtn').click()
+    open_menu(page, '열차스케줄', '온라인 열차그래프(O)')
     expect(page.locator('#diaSvg [data-dia-train]')).to_have_count(12)
     expect(page.locator('#diaSvg [data-dia-station], #diaSvg [data-dia-stop]')).to_have_count(33)
     expect(page.locator('#graphDetails tbody tr')).to_have_count(33)
@@ -118,8 +133,7 @@ def check(page, url, screenshot=False):
     page.locator('#graphFrom').select_option('cheongnyangni')
     page.locator('#graphTo').select_option('suwon')
     # All-station online schedule creation, atomic validation, edit/copy/cancel.
-    page.locator('#scheduleMenu').click()
-    page.locator('#onlineScheduleBtn').click()
+    open_menu(page, '열차스케줄', '온라인열차스케줄 관리', '온라인 열차스케줄관리(G)')
     expect(page.locator('#scheduleFrom option')).to_have_count(33)
     expect(page.locator('#scheduleTo option')).to_have_count(33)
     page.locator('#scheduleMode').select_option('create')
@@ -159,7 +173,9 @@ def check(page, url, screenshot=False):
     expect(page.locator('#graphTrain')).to_have_value('C2001')
     expect(page.locator('#graphDetails h3')).not_to_contain_text('운휴')
     expect(page.locator('#graphDetails')).to_contain_text('10:00:00')
+    front(page, 'graph')
     page.locator('#graphApplyDelay').click()
+    front(page, 'schedule')
     page.locator('#scheduleApply').click()
     expect(page.locator('#scheduleMessage')).to_contain_text('다시 조회')
     page.locator('#scheduleMode').select_option('create')

diff --git a/simulator/schematic.browser.test.py b/simulator/schematic.browser.test.py
@@ -32,7 +32,7 @@ try:
    assert page.locator('[data-track-state="occupied"]').count()>0
    page.locator('[data-sim-clear="1A-1T"]').click()
    expect(page.locator('[data-track-state="occupied"]')).to_have_count(0)
-   assert not [u for u in requests if any(ext in u.lower() for ext in ['.jpg','.jpeg','.png','.webp'])],requests
+   assert not [u for u in requests if any(ext in u.lower() for ext in ['.jpg','.jpeg','.png','.webp']) and 'orpheia-mascot' not in u],requests  # the optional MMI mascot is decoration, not part of the LS
    assert not errors,errors
    page.close();print(f'PASS {width}px: 15 native scenes, no raster requests, equipment identifiers and track-state linkage')
   browser.close()

diff --git a/simulator/assets/README-orpheia.md b/simulator/assets/README-orpheia.md
@@ -1,0 +1,3 @@
+# orpheia-mascot.png (선택)
+
+MMI 배경의 오르페이아 캐릭터 이미지입니다. 이 폴더에 `orpheia-mascot.png`(투명 배경 권장, 세로 약 600px)를 두면 자동으로 쓰이고, 없으면 벡터 리라 로고로 대체됩니다. 학교 로고는 사용하지 않습니다.
